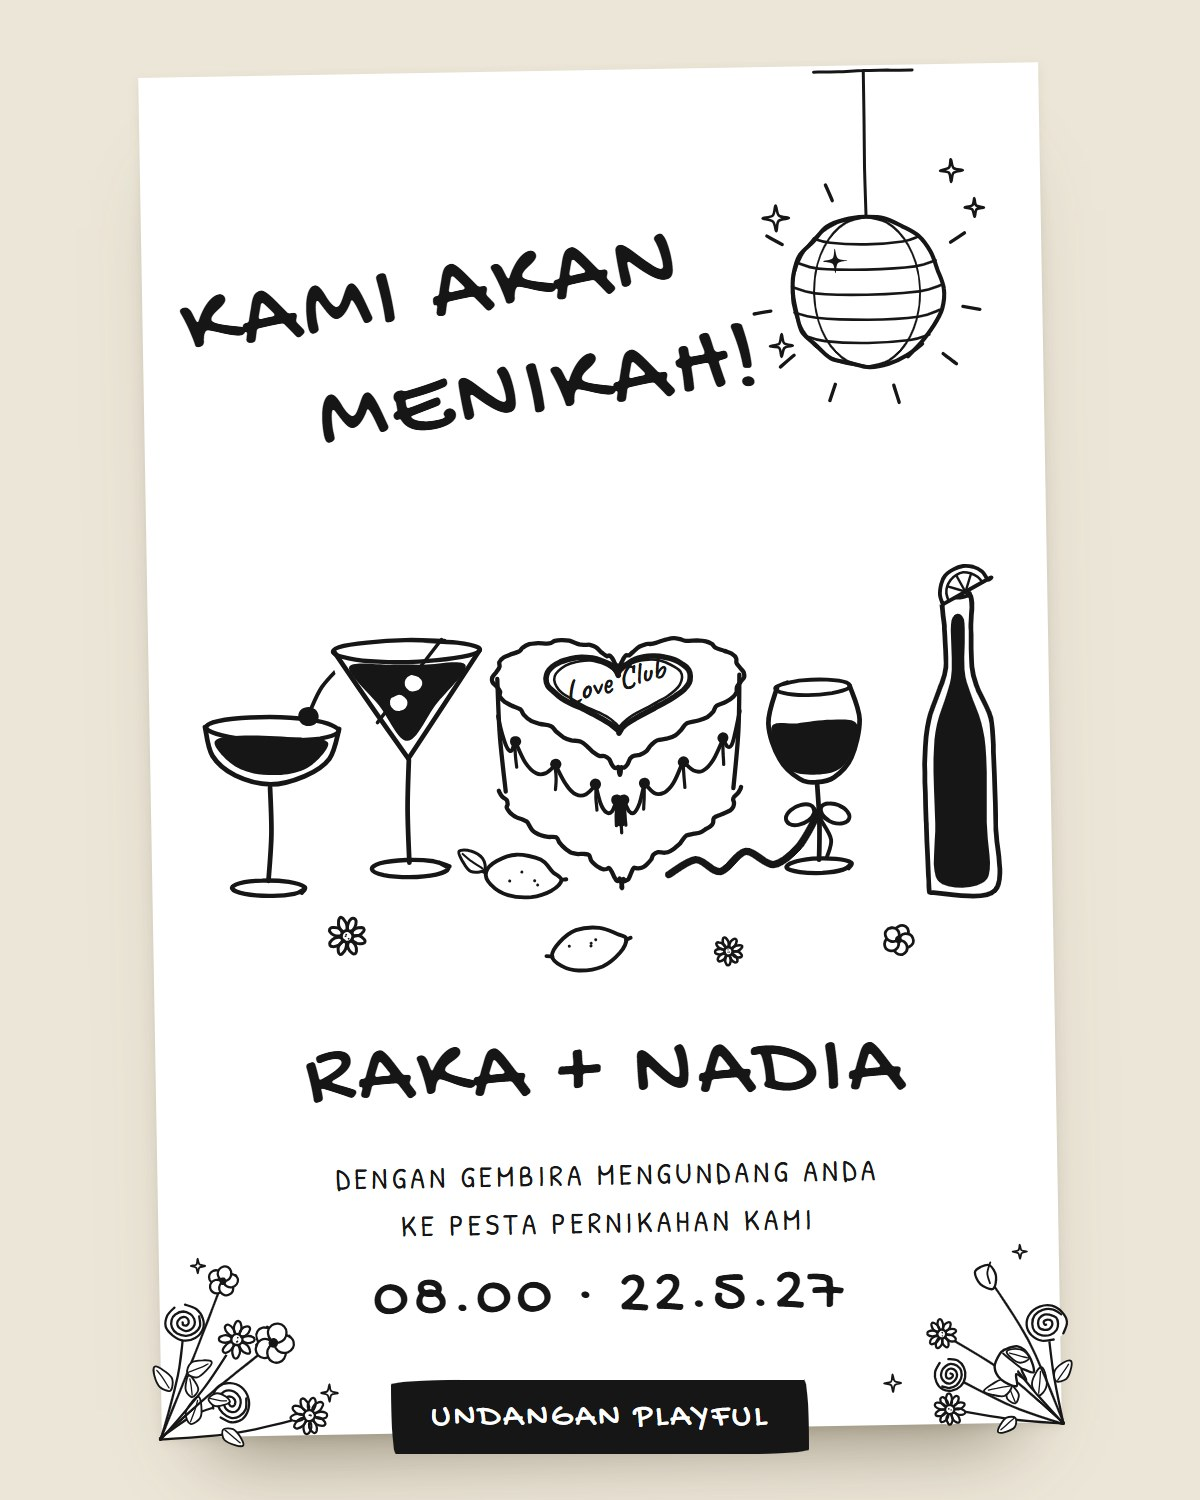
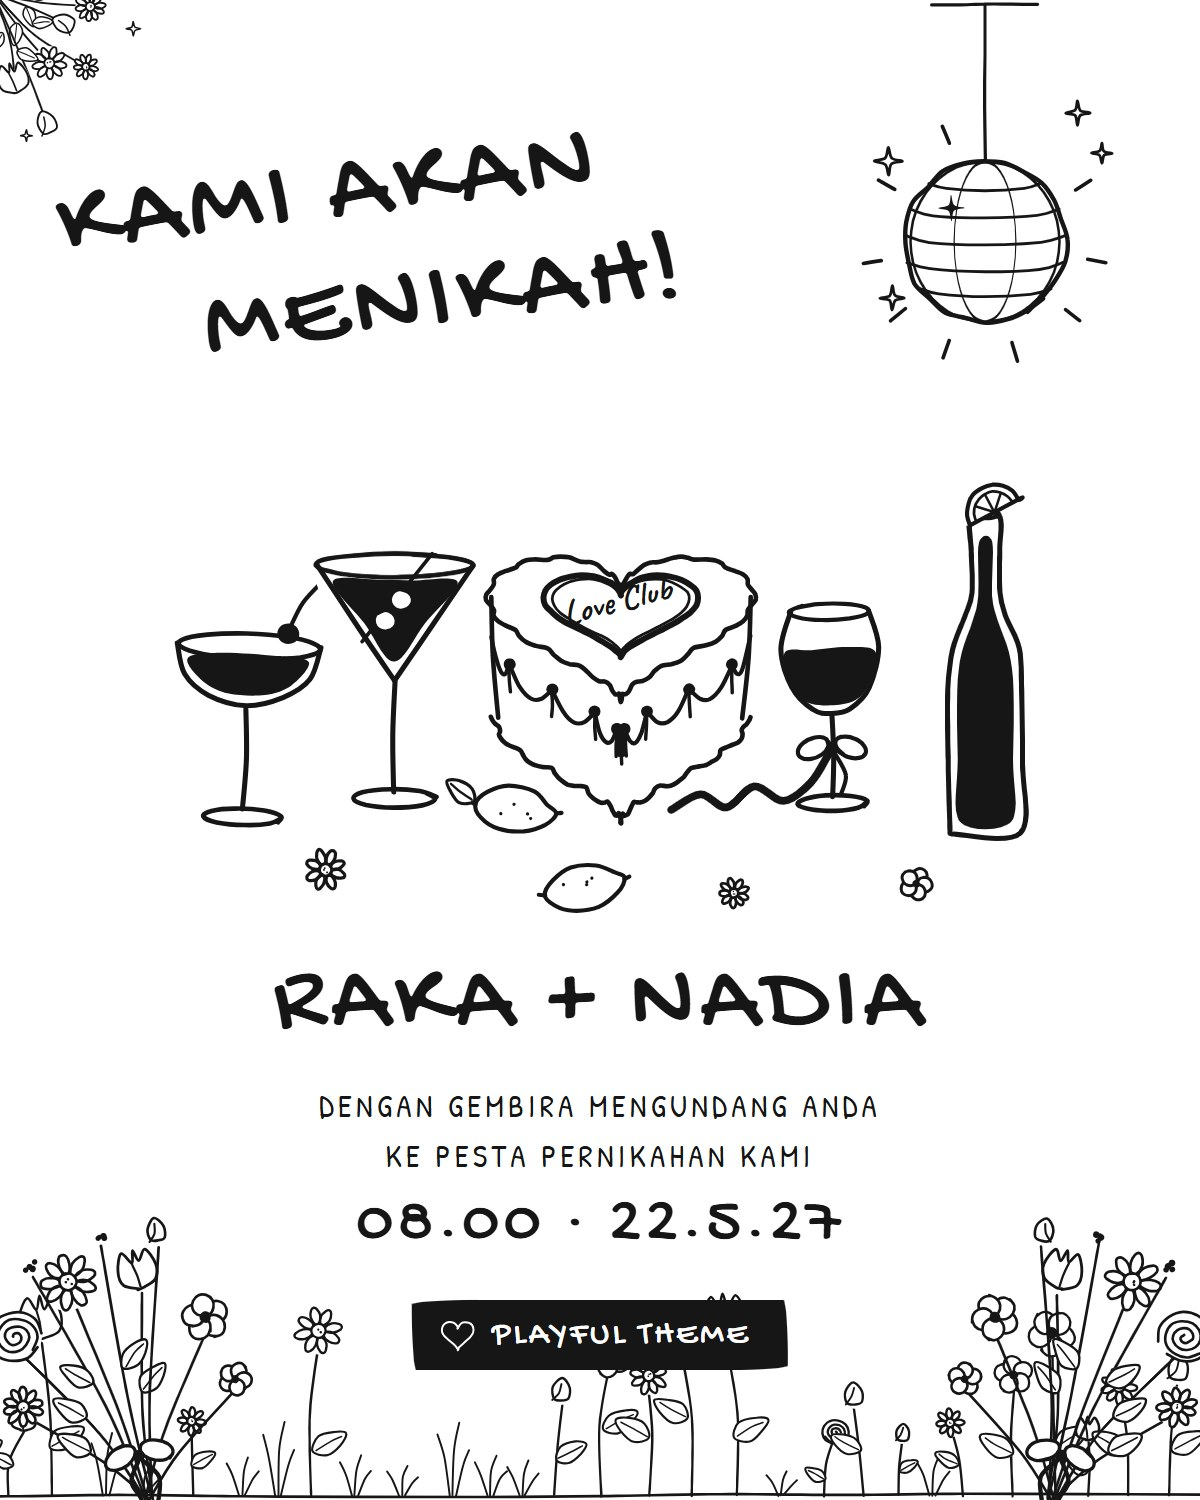
Update project

diff --git a/public/kredit.html b/public/kredit.html
@@ -14,8 +14,8 @@ th { background: #161616; color: #fbfaf6; font-weight: 500; }
 a { color: #161616; } code { font-size: 13px; }
 </style></head><body><main>
 <h1>Kredit Aset</h1>
-<p>Seluruh foto dan musik berasal dari Wikimedia Commons dengan lisensi bebas (foto Unsplash berlisensi CC0, rekaman piano domain publik).
+<p>Musik berasal dari Wikimedia Commons dengan lisensi bebas (rekaman piano domain publik). Foto contoh berasal dari folder <code>img-undangan</code> (disediakan pemilik proyek).
 Berkas diubah ukuran, dipotong, atau dikonversi formatnya untuk web. Seluruh ilustrasi doodle (bunga, disco ball, gelas, kue, lemon, ikon) digambar langsung dengan kode (SVG/canvas), bukan aset pihak ketiga. <a href="./">← Kembali ke undangan</a></p>
 <div class="scroll"><table><thead><tr><th>Berkas</th><th>Dipakai untuk</th><th>Karya asli</th><th>Pembuat</th><th>Lisensi</th></tr></thead>
-<tbody><tr><td><code>images/groom.jpg, images/bride.jpg</code></td><td>Foto mempelai contoh (dipotong dari satu foto)</td><td><a href="https://commons.wikimedia.org/wiki/File:Groom_follows_behind_bride_(Unsplash).jpg">Groom follows behind bride (Unsplash).jpg</a></td><td>Brooke Cagle brookecagle</td><td><a href="http://creativecommons.org/publicdomain/zero/1.0/deed.en">CC0</a></td></tr><tr><td><code>images/hero.jpg</code></td><td>Foto hero</td><td><a href="https://commons.wikimedia.org/wiki/File:Bride_and_groom_on_rural_road_(Unsplash).jpg">Bride and groom on rural road (Unsplash).jpg</a></td><td>Andrew Itaga and73w</td><td><a href="http://creativecommons.org/publicdomain/zero/1.0/deed.en">CC0</a></td></tr><tr><td><code>images/cover.jpg</code></td><td>Foto kecil di sampul</td><td><a href="https://commons.wikimedia.org/wiki/File:Bride_holds_wedding_bands_(Unsplash).jpg">Bride holds wedding bands (Unsplash).jpg</a></td><td>Petr Ovralov petrov</td><td><a href="http://creativecommons.org/publicdomain/zero/1.0/deed.en">CC0</a></td></tr><tr><td><code>images/gallery-hands.jpg</code></td><td>Galeri &amp; cerita contoh</td><td><a href="https://commons.wikimedia.org/wiki/File:Bride_and_groom_hold_hands_(Unsplash).jpg">Bride and groom hold hands (Unsplash).jpg</a></td><td>Wu Jianxiong yeti</td><td><a href="http://creativecommons.org/publicdomain/zero/1.0/deed.en">CC0</a></td></tr><tr><td><code>images/gallery-rings.jpg</code></td><td>Galeri &amp; cerita contoh</td><td><a href="https://commons.wikimedia.org/wiki/File:Wedding_rings_(Unsplash).jpg">Wedding rings (Unsplash).jpg</a></td><td>Glen McCallum glen_mccallum</td><td><a href="http://creativecommons.org/publicdomain/zero/1.0/deed.en">CC0</a></td></tr><tr><td><code>images/gallery-aisle.jpg</code></td><td>Galeri &amp; cerita contoh</td><td><a href="https://commons.wikimedia.org/wiki/File:Aisle_for_a_Wedding_(Unsplash).jpg">Aisle for a Wedding (Unsplash).jpg</a></td><td>Shardayyy Photography shardayyy</td><td><a href="http://creativecommons.org/publicdomain/zero/1.0/deed.en">CC0</a></td></tr><tr><td><code>images/gallery-forest.jpg</code></td><td>Galeri &amp; cerita contoh</td><td><a href="https://commons.wikimedia.org/wiki/File:Wedding_walk_dark_forest_path_(Unsplash).jpg">Wedding walk dark forest path (Unsplash).jpg</a></td><td>photo-nic.co.uk nic chiro</td><td><a href="http://creativecommons.org/publicdomain/zero/1.0/deed.en">CC0</a></td></tr><tr><td><code>images/gallery-smile.jpg</code></td><td>Galeri contoh</td><td><a href="https://commons.wikimedia.org/wiki/File:Bride_smiles_at_groom_(Unsplash).jpg">Bride smiles at groom (Unsplash).jpg</a></td><td>Cayton Heath cayton</td><td><a href="http://creativecommons.org/publicdomain/zero/1.0/deed.en">CC0</a></td></tr><tr><td><code>images/gallery-veil.jpg</code></td><td>Galeri contoh</td><td><a href="https://commons.wikimedia.org/wiki/File:Wedding_veil_and_lips_(Unsplash).jpg">Wedding veil and lips (Unsplash).jpg</a></td><td>photo-nic.co.uk nic chiro</td><td><a href="http://creativecommons.org/publicdomain/zero/1.0/deed.en">CC0</a></td></tr><tr><td><code>images/gallery-shoes.jpg</code></td><td>Galeri contoh</td><td><a href="https://commons.wikimedia.org/wiki/File:Wedding_shoes_(Unsplash).jpg">Wedding shoes (Unsplash).jpg</a></td><td>Nathan Walker nwphoto</td><td><a href="http://creativecommons.org/publicdomain/zero/1.0/deed.en">CC0</a></td></tr><tr><td><code>images/closing.jpg</code></td><td>Latar penutup</td><td><a href="https://commons.wikimedia.org/wiki/File:Windy_wedding_on_a_beach_(Unsplash).jpg">Windy wedding on a beach (Unsplash).jpg</a></td><td>Hisu lee lee_hisu</td><td><a href="http://creativecommons.org/publicdomain/zero/1.0/deed.en">CC0</a></td></tr><tr><td><code>audio/gymnopedie.mp3</code></td><td>Musik latar — Erik Satie, Gymnopédie No. 1 (dikonversi ke MP3)</td><td><a href="https://commons.wikimedia.org/wiki/File:Satie_Gymnopedie_No_1_performed_by_Michael_Laucke.flac">Satie Gymnopedie No 1 performed by Michael Laucke.flac</a></td><td>Mlaucke</td><td>Public domain</td></tr></tbody></table></div>
+<tbody><tr><td><code>img-undangan/0a2085c735ff185d105bef9eb93f3b47.jpg</code></td><td>Galeri &amp; cerita contoh</td><td>Foto contoh dari folder img-undangan</td><td>Tidak dicantumkan</td><td>Disediakan pemilik proyek — pastikan izin pakai sebelum publikasi</td></tr><tr><td><code>img-undangan/0a400eaa1f10a7e4a12e079a7f321df1.jpg</code></td><td>Galeri &amp; cerita contoh</td><td>Foto contoh dari folder img-undangan</td><td>Tidak dicantumkan</td><td>Disediakan pemilik proyek — pastikan izin pakai sebelum publikasi</td></tr><tr><td><code>img-undangan/45c3f0078259ab963014c4d835a8c48e.jpg</code></td><td>Foto hero; Galeri contoh</td><td>Foto contoh dari folder img-undangan</td><td>Tidak dicantumkan</td><td>Disediakan pemilik proyek — pastikan izin pakai sebelum publikasi</td></tr><tr><td><code>img-undangan/61d0d79a7753b69f3e143795836a8153.jpg</code></td><td>Foto mempelai contoh</td><td>Foto contoh dari folder img-undangan</td><td>Tidak dicantumkan</td><td>Disediakan pemilik proyek — pastikan izin pakai sebelum publikasi</td></tr><tr><td><code>img-undangan/6fe3e4aa5d48be2166de719e3831f568.jpg</code></td><td>Galeri contoh</td><td>Foto contoh dari folder img-undangan</td><td>Tidak dicantumkan</td><td>Disediakan pemilik proyek — pastikan izin pakai sebelum publikasi</td></tr><tr><td><code>img-undangan/a751177140d9a863db5f558a5c12d23a.jpg</code></td><td>Galeri &amp; cerita contoh; Latar penutup</td><td>Foto contoh dari folder img-undangan</td><td>Tidak dicantumkan</td><td>Disediakan pemilik proyek — pastikan izin pakai sebelum publikasi</td></tr><tr><td><code>img-undangan/a843abd1f4f511a3b717402a0b48a006.jpg</code></td><td>Foto mempelai contoh</td><td>Foto contoh dari folder img-undangan</td><td>Tidak dicantumkan</td><td>Disediakan pemilik proyek — pastikan izin pakai sebelum publikasi</td></tr><tr><td><code>img-undangan/af8229644236640067d2be790fe9a79a.jpg</code></td><td>Galeri contoh</td><td>Foto contoh dari folder img-undangan</td><td>Tidak dicantumkan</td><td>Disediakan pemilik proyek — pastikan izin pakai sebelum publikasi</td></tr><tr><td><code>img-undangan/d0defbbc7f6b72c5f8f8f7620ad5691a.jpg</code></td><td>Foto kecil di sampul; Galeri &amp; cerita contoh</td><td>Foto contoh dari folder img-undangan</td><td>Tidak dicantumkan</td><td>Disediakan pemilik proyek — pastikan izin pakai sebelum publikasi</td></tr><tr><td><code>audio/gymnopedie.mp3</code></td><td>Musik latar — Erik Satie, Gymnopédie No. 1 (dikonversi ke MP3)</td><td><a href="https://commons.wikimedia.org/wiki/File:Satie_Gymnopedie_No_1_performed_by_Michael_Laucke.flac">Satie Gymnopedie No 1 performed by Michael Laucke.flac</a></td><td>Mlaucke</td><td>Public domain</td></tr></tbody></table></div>
 </main></body></html>

diff --git a/thumbnail/thumbnail.html b/thumbnail/thumbnail.html
@@ -9,38 +9,42 @@
 <style>
   * { box-sizing: border-box; margin: 0; }
   html, body { width: 1200px; height: 1500px; overflow: hidden; }
-  body { position: relative; background: #ece6d8; font-family: 'Patrick Hand', sans-serif; color: #161616; }
+  body { position: relative; background: #fff; font-family: 'Patrick Hand', sans-serif; color: #161616; --pf: #fff; }
   .doodle { display: block; width: 100%; height: auto; overflow: visible; color: #161616; }
   .doodle .ln { fill: none; stroke: currentColor; stroke-linecap: round; stroke-linejoin: round; }
   .doodle .fl { fill: currentColor; }
-  .doodle .pf { fill: var(--pf, #fff); }
+  .doodle .pf { fill: var(--pf); }
   .doodle .txt { fill: currentColor; font-family: 'Caveat', cursive; font-weight: 700; }
-  .card { position: absolute; left: 150px; top: 70px; width: 900px; height: 1360px; background: #fff; rotate: -1deg;
-    box-shadow: 0 60px 80px -50px rgba(70, 58, 34, .6), 0 4px 10px rgba(70, 58, 34, .1); }
-  .disco { position: absolute; top: -6px; right: 40px; width: 270px; }
-  .title { position: absolute; left: 60px; top: 200px; font: 98px/1.12 'Gochi Hand'; letter-spacing: .05em; text-transform: uppercase; rotate: -7deg; transform-origin: 0 100%; }
+  .abs { position: absolute; }
+  .disco { top: -8px; right: 70px; width: 290px; }
+  .title { left: 80px; top: 170px; font: 106px/1.12 'Gochi Hand'; letter-spacing: .05em; text-transform: uppercase; rotate: -7deg; transform-origin: 0 100%; }
   .title span { display: block; } .title span + span { margin-left: 1.25em; }
-  .scene { position: absolute; left: 30px; right: 30px; top: 470px; }
-  .names { position: absolute; left: 0; right: 0; top: 960px; text-align: center; font: 92px/1 'Gochi Hand'; letter-spacing: .05em; text-transform: uppercase; }
-  .invite { position: absolute; left: 0; right: 0; top: 1080px; text-align: center; font-size: 30px; letter-spacing: .14em; text-transform: uppercase; line-height: 1.6; }
-  .when { position: absolute; left: 0; right: 0; top: 1190px; text-align: center; font: 64px 'Gochi Hand'; letter-spacing: .06em; }
-  .cf { position: absolute; bottom: -10px; width: 230px; }
-  .cf.bl { left: -10px; transform: scaleY(-1); } .cf.br { right: -10px; transform: scale(-1, -1); }
-  .chip { position: absolute; left: 50%; bottom: 46px; translate: -50% 0; padding: 18px 40px 16px; background: #161616; color: #fff; font: 34px 'Gochi Hand'; letter-spacing: .08em; text-transform: uppercase; border-radius: 255px 18px 225px 18px / 18px 225px 18px 255px; white-space: nowrap; }
+  .tl { top: -14px; left: -14px; width: 190px; }
+  .scene { left: 150px; width: 900px; top: 450px; }
+  .names { left: 0; right: 0; top: 955px; text-align: center; font: 100px/1 'Gochi Hand'; letter-spacing: .05em; text-transform: uppercase; }
+  .invite { left: 0; right: 0; top: 1082px; text-align: center; font-size: 31px; letter-spacing: .14em; text-transform: uppercase; line-height: 1.6; }
+  .when { left: 0; right: 0; top: 1186px; text-align: center; font: 66px 'Gochi Hand'; letter-spacing: .06em; }
+  .meadow { left: 0; right: 0; bottom: 0; height: 190px; }
+  .meadow .doodle { position: absolute; inset: 0; width: 100%; height: 100%; }
+  .bq { bottom: -26px; width: 300px; }
+  .bq.l { left: -30px; rotate: -12deg; } .bq.r { right: -30px; rotate: 12deg; transform: scaleX(-1); }
+  .chip { left: 50%; top: 1300px; translate: -50% 0; display: flex; align-items: center; gap: 14px; padding: 16px 38px 14px 26px; background: #161616; color: #fff;
+    font: 34px 'Gochi Hand'; letter-spacing: .08em; text-transform: uppercase; border-radius: 255px 18px 225px 18px / 18px 225px 18px 255px; white-space: nowrap; --pf: #161616; }
+  .chip span { width: 40px; height: 36px; } .chip .doodle { color: #fff; width: 100%; height: 100%; }
 </style>
 </head>
 <body>
-  <div class="card">
-    <div class="disco" data-doodle="disco"></div>
-    <h1 class="title"><span>Kami akan</span><span>menikah!</span></h1>
-    <div class="scene" data-doodle="scene"></div>
-    <p class="names">Raka + Nadia</p>
-    <p class="invite">dengan gembira mengundang anda<br />ke pesta pernikahan kami</p>
-    <p class="when">08.00 · 22.5.27</p>
-    <div class="cf bl" data-doodle="corner" data-seed="11"></div>
-    <div class="cf br" data-doodle="corner" data-seed="23"></div>
-  </div>
-  <div class="chip">Undangan Playful</div>
+  <div class="abs tl" data-doodle="corner" data-seed="31"></div>
+  <div class="abs disco" data-doodle="disco"></div>
+  <h1 class="abs title"><span>Kami akan</span><span>menikah!</span></h1>
+  <div class="abs scene" data-doodle="scene"></div>
+  <p class="abs names">Raka + Nadia</p>
+  <p class="abs invite">dengan gembira mengundang anda<br />ke pesta pernikahan kami</p>
+  <p class="abs when">08.00 · 22.5.27</p>
+  <div class="abs meadow" data-doodle="meadow" data-seed="3" data-w="1600"></div>
+  <div class="abs bq l" data-doodle="bouquet" data-seed="5"></div>
+  <div class="abs bq r" data-doodle="bouquet" data-seed="8"></div>
+  <div class="abs chip"><span data-doodle="heart"></span>Playful Theme</div>
   <script>window.INVITATION = { playful: { cakeText: 'Love Club' } };</script>
   <script src="../public/js/doodle.js"></script>
 </body>

diff --git a/public/js/config.js b/public/js/config.js
@@ -13,14 +13,14 @@ window.INVITATION = {
       title: 'S.Ds.',
       parents: 'Putra pertama dari Bapak Hendra Gunawan & Ibu Ratna Dewi',
       instagram: 'rakaaditya', // tanpa @ — kosongkan untuk menyembunyikan
-      photo: 'images/groom.jpg',
+      photo: 'img-undangan/61d0d79a7753b69f3e143795836a8153.jpg',
     },
     bride: {
       name: 'Nadia Putri Maharani',
       title: 'S.I.Kom.',
       parents: 'Putri kedua dari Bapak Agus Salim & Ibu Wulan Sari',
       instagram: 'nadiaputri',
-      photo: 'images/bride.jpg',
+      photo: 'img-undangan/a843abd1f4f511a3b717402a0b48a006.jpg',
     },
   },
 
@@ -37,7 +37,7 @@ window.INVITATION = {
   },
 
   hero: {
-    photo: 'images/hero.jpg',
+    photo: 'img-undangan/45c3f0078259ab963014c4d835a8c48e.jpg',
     kicker: 'Yeay, kami menikah!',
   },
 
@@ -51,25 +51,25 @@ window.INVITATION = {
       year: '2019',
       title: 'Kopi yang tertukar',
       text: 'Pesanan kami tertukar di sebuah kedai kopi di Kemang — ia dapat es kopi susu saya, saya dapat americano-nya. Kami tertawa, lalu duduk satu meja.',
-      photo: 'images/gallery-hands.jpg',
+      photo: 'img-undangan/a751177140d9a863db5f558a5c12d23a.jpg',
     },
     {
       year: '2022',
       title: 'Partner segala hal',
       text: 'Dari konser kecil, nyasar di jalan tol, sampai merakit lemari bersama. Ternyata semuanya lebih seru kalau berdua.',
-      photo: 'images/gallery-forest.jpg',
+      photo: 'img-undangan/d0defbbc7f6b72c5f8f8f7620ad5691a.jpg',
     },
     {
       year: '2026',
       title: 'Iya!',
       text: 'Di tengah piknik sederhana dengan kue berbentuk hati, sebuah cincin keluar dari kotak bekal. Jawabannya: iya, tentu saja!',
-      photo: 'images/gallery-rings.jpg',
+      photo: 'img-undangan/0a400eaa1f10a7e4a12e079a7f321df1.jpg',
     },
     {
       year: '2027',
       title: 'Ayo berpesta',
       text: 'Sekarang giliran kami merayakan — dan pesta tidak akan lengkap tanpa kamu. Sampai bertemu di lantai dansa!',
-      photo: 'images/gallery-aisle.jpg',
+      photo: 'img-undangan/0a2085c735ff185d105bef9eb93f3b47.jpg',
     },
   ],
 
@@ -99,13 +99,13 @@ window.INVITATION = {
   ],
 
   gallery: [
-    'images/gallery-smile.jpg',
-    'images/gallery-veil.jpg',
-    'images/gallery-hands.jpg',
-    'images/gallery-shoes.jpg',
-    'images/gallery-aisle.jpg',
-    'images/gallery-forest.jpg',
-    'images/gallery-rings.jpg',
+    'img-undangan/45c3f0078259ab963014c4d835a8c48e.jpg',
+    'img-undangan/6fe3e4aa5d48be2166de719e3831f568.jpg',
+    'img-undangan/a751177140d9a863db5f558a5c12d23a.jpg',
+    'img-undangan/af8229644236640067d2be790fe9a79a.jpg',
+    'img-undangan/0a2085c735ff185d105bef9eb93f3b47.jpg',
+    'img-undangan/d0defbbc7f6b72c5f8f8f7620ad5691a.jpg',
+    'img-undangan/0a400eaa1f10a7e4a12e079a7f321df1.jpg',
   ],
 
   gift: {
@@ -123,7 +123,7 @@ window.INVITATION = {
   },
 
   closing: {
-    photo: 'images/closing.jpg',
+    photo: 'img-undangan/a751177140d9a863db5f558a5c12d23a.jpg',
     title: 'Sampai jumpa di pesta!',
     text: 'Kehadiran dan doa restu Anda adalah hadiah paling manis untuk kami. Siapkan sepatu dansamu ya!',
   },

diff --git a/public/css/style.css b/public/css/style.css
@@ -96,7 +96,7 @@ p { margin: 0; }
 .doodle .twk { transform-box: fill-box; transform-origin: 50% 50%; animation: twk 1.6s ease-in-out infinite; animation-delay: calc(var(--k, 0) * -0.4s); }
 .doodle .ray { animation: ray 1.2s steps(1) infinite; animation-delay: calc(var(--k, 0) * -0.3s); }
 .doodle .swing { transform-box: fill-box; transform-origin: 50% 0; animation: swing 3.4s ease-in-out infinite alternate; }
-.doodle .mer { transform-box: fill-box; transform-origin: 50% 50%; animation: mer 4s cubic-bezier(0.37, 0, 0.63, 1) infinite; animation-delay: calc(var(--k, 0) * -1s); }
+.doodle .mer { transform-box: fill-box; transform-origin: 50% 50%; animation: mer 4s cubic-bezier(0.37, 0, 0.63, 1) infinite; animation-delay: calc((var(--k, 0) + 0.5) * -1s); }
 .doodle .cakebody { transform-box: fill-box; transform-origin: 50% 100%; animation: squash 3.2s var(--ease) infinite; }
 .motion .doodle .pop { transform-box: fill-box; transform-origin: 50% 100%; transform: scale(0); transition: transform 0.8s var(--spring); transition-delay: calc(var(--b, 0s) + var(--n, 0) * 0.11s); }
 .motion .doodle.drawn .pop { transform: none; }

diff --git a/public/js/doodle.js b/public/js/doodle.js
@@ -313,7 +313,7 @@
           p.g('mer', () => {
             p.raw(`<circle r="${R}" fill="none" stroke="none"/>`);
             p.ln(smooth(mer, false), 1.4);
-          }, '', `--k:${k};transform-box:fill-box;transform-origin:center;transform:scaleX(${f(-Math.cos((Math.PI * k) / 4) * 100) / 100})`); // posisi diam = fase animasi
+          }, '', `--k:${k};transform-box:fill-box;transform-origin:center;transform:scaleX(${f(-Math.cos((Math.PI * (k + 0.5)) / 4) * 100) / 100})`); // posisi diam = fase animasi
         }
         p.raw(`<g class="twk" style="--k:1">`); p.fl(star(-R * 0.42, -R * 0.42, R * 0.16)); p.raw('</g>');
       });

diff --git a/CREDITS.md b/CREDITS.md
@@ -1,19 +1,17 @@
 # Kredit aset
 
-Foto & musik dari Wikimedia Commons (diubah ukuran/dipotong/dikonversi untuk web).
+Musik dari Wikimedia Commons (dikonversi untuk web). Foto contoh dari folder `img-undangan` (disediakan pemilik proyek).
 Semua ilustrasi doodle (bunga, disco ball, gelas, kue, lemon, ikon) dibuat langsung dengan kode (`js/doodle.js`, `js/play.js`) — bukan aset pihak ketiga. Gaya terinspirasi undangan doodle tinta hitam-putih.
 
 | Berkas | Dipakai untuk | Karya | Pembuat | Lisensi |
 |---|---|---|---|---|
-| `images/groom.jpg, images/bride.jpg` | Foto mempelai contoh (dipotong dari satu foto) | [Groom follows behind bride (Unsplash).jpg](https://commons.wikimedia.org/wiki/File:Groom_follows_behind_bride_(Unsplash).jpg) | Brooke Cagle brookecagle | CC0 |
-| `images/hero.jpg` | Foto hero | [Bride and groom on rural road (Unsplash).jpg](https://commons.wikimedia.org/wiki/File:Bride_and_groom_on_rural_road_(Unsplash).jpg) | Andrew Itaga and73w | CC0 |
-| `images/cover.jpg` | Foto kecil di sampul | [Bride holds wedding bands (Unsplash).jpg](https://commons.wikimedia.org/wiki/File:Bride_holds_wedding_bands_(Unsplash).jpg) | Petr Ovralov petrov | CC0 |
-| `images/gallery-hands.jpg` | Galeri & cerita contoh | [Bride and groom hold hands (Unsplash).jpg](https://commons.wikimedia.org/wiki/File:Bride_and_groom_hold_hands_(Unsplash).jpg) | Wu Jianxiong yeti | CC0 |
-| `images/gallery-rings.jpg` | Galeri & cerita contoh | [Wedding rings (Unsplash).jpg](https://commons.wikimedia.org/wiki/File:Wedding_rings_(Unsplash).jpg) | Glen McCallum glen_mccallum | CC0 |
-| `images/gallery-aisle.jpg` | Galeri & cerita contoh | [Aisle for a Wedding (Unsplash).jpg](https://commons.wikimedia.org/wiki/File:Aisle_for_a_Wedding_(Unsplash).jpg) | Shardayyy Photography shardayyy | CC0 |
-| `images/gallery-forest.jpg` | Galeri & cerita contoh | [Wedding walk dark forest path (Unsplash).jpg](https://commons.wikimedia.org/wiki/File:Wedding_walk_dark_forest_path_(Unsplash).jpg) | photo-nic.co.uk nic chiro | CC0 |
-| `images/gallery-smile.jpg` | Galeri contoh | [Bride smiles at groom (Unsplash).jpg](https://commons.wikimedia.org/wiki/File:Bride_smiles_at_groom_(Unsplash).jpg) | Cayton Heath cayton | CC0 |
-| `images/gallery-veil.jpg` | Galeri contoh | [Wedding veil and lips (Unsplash).jpg](https://commons.wikimedia.org/wiki/File:Wedding_veil_and_lips_(Unsplash).jpg) | photo-nic.co.uk nic chiro | CC0 |
-| `images/gallery-shoes.jpg` | Galeri contoh | [Wedding shoes (Unsplash).jpg](https://commons.wikimedia.org/wiki/File:Wedding_shoes_(Unsplash).jpg) | Nathan Walker nwphoto | CC0 |
-| `images/closing.jpg` | Latar penutup | [Windy wedding on a beach (Unsplash).jpg](https://commons.wikimedia.org/wiki/File:Windy_wedding_on_a_beach_(Unsplash).jpg) | Hisu lee lee_hisu | CC0 |
+| `img-undangan/0a2085c735ff185d105bef9eb93f3b47.jpg` | Galeri & cerita contoh | Foto contoh dari folder img-undangan | Tidak dicantumkan | Disediakan pemilik proyek — pastikan izin pakai sebelum publikasi |
+| `img-undangan/0a400eaa1f10a7e4a12e079a7f321df1.jpg` | Galeri & cerita contoh | Foto contoh dari folder img-undangan | Tidak dicantumkan | Disediakan pemilik proyek — pastikan izin pakai sebelum publikasi |
+| `img-undangan/45c3f0078259ab963014c4d835a8c48e.jpg` | Foto hero; Galeri contoh | Foto contoh dari folder img-undangan | Tidak dicantumkan | Disediakan pemilik proyek — pastikan izin pakai sebelum publikasi |
+| `img-undangan/61d0d79a7753b69f3e143795836a8153.jpg` | Foto mempelai contoh | Foto contoh dari folder img-undangan | Tidak dicantumkan | Disediakan pemilik proyek — pastikan izin pakai sebelum publikasi |
+| `img-undangan/6fe3e4aa5d48be2166de719e3831f568.jpg` | Galeri contoh | Foto contoh dari folder img-undangan | Tidak dicantumkan | Disediakan pemilik proyek — pastikan izin pakai sebelum publikasi |
+| `img-undangan/a751177140d9a863db5f558a5c12d23a.jpg` | Galeri & cerita contoh; Latar penutup | Foto contoh dari folder img-undangan | Tidak dicantumkan | Disediakan pemilik proyek — pastikan izin pakai sebelum publikasi |
+| `img-undangan/a843abd1f4f511a3b717402a0b48a006.jpg` | Foto mempelai contoh | Foto contoh dari folder img-undangan | Tidak dicantumkan | Disediakan pemilik proyek — pastikan izin pakai sebelum publikasi |
+| `img-undangan/af8229644236640067d2be790fe9a79a.jpg` | Galeri contoh | Foto contoh dari folder img-undangan | Tidak dicantumkan | Disediakan pemilik proyek — pastikan izin pakai sebelum publikasi |
+| `img-undangan/d0defbbc7f6b72c5f8f8f7620ad5691a.jpg` | Foto kecil di sampul; Galeri & cerita contoh | Foto contoh dari folder img-undangan | Tidak dicantumkan | Disediakan pemilik proyek — pastikan izin pakai sebelum publikasi |
 | `audio/gymnopedie.mp3` | Musik latar — Erik Satie, Gymnopédie No. 1 (dikonversi ke MP3) | [Satie Gymnopedie No 1 performed by Michael Laucke.flac](https://commons.wikimedia.org/wiki/File:Satie_Gymnopedie_No_1_performed_by_Michael_Laucke.flac) | Mlaucke | Public domain |
